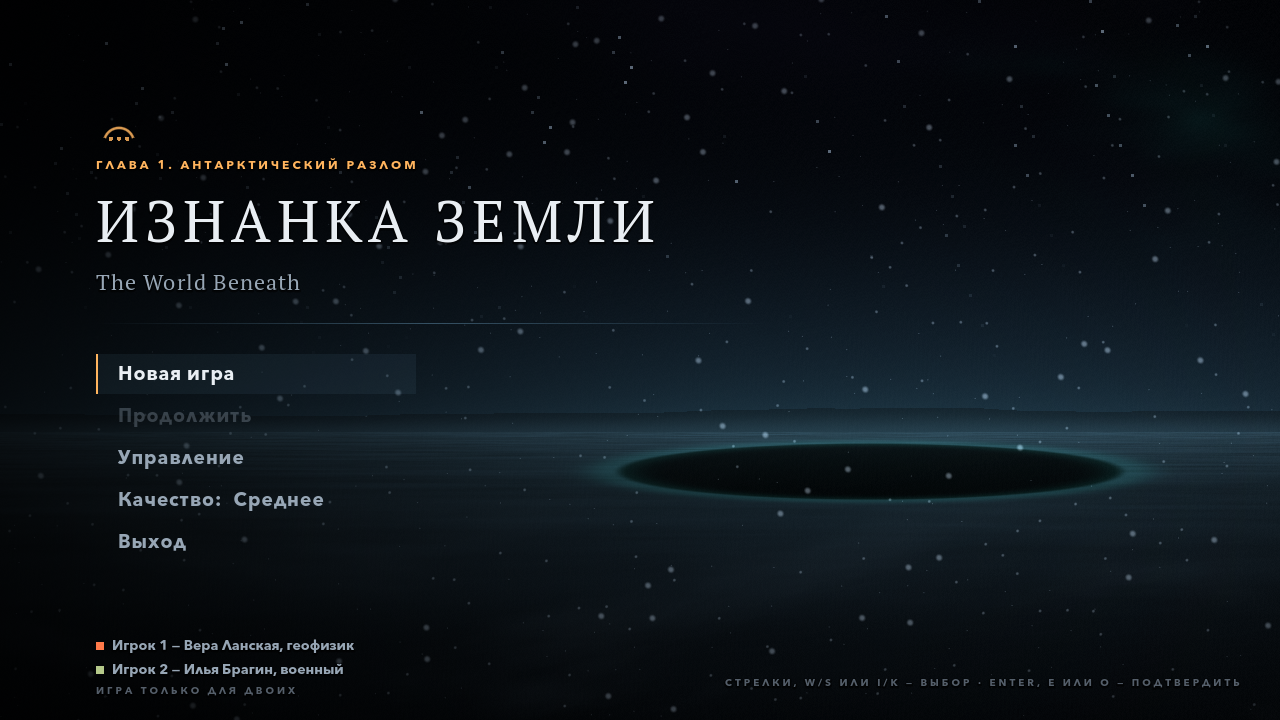
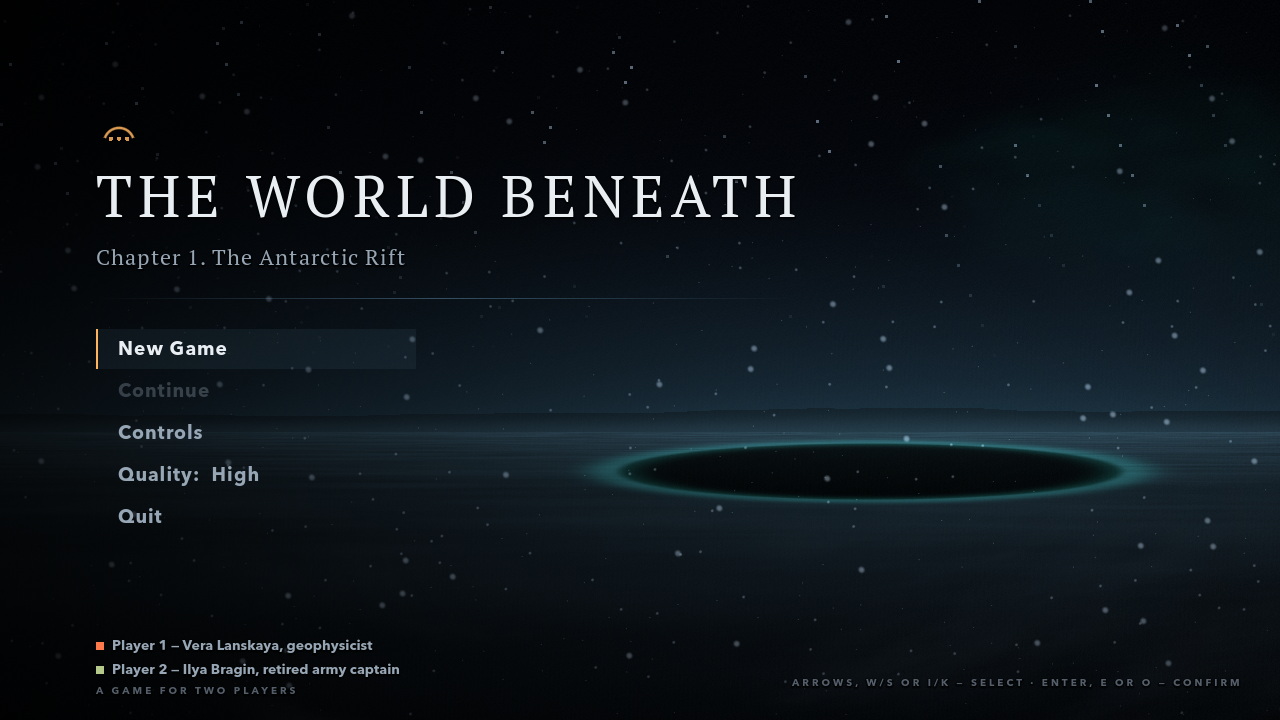
Version 0.3: English game, new description and screenshots

diff --git a/README.md b/README.md
@@ -1,67 +1,83 @@
-# Изнанка Земли / The World Beneath
+# The World Beneath
 
-Кооперативная приключенческая игра на двоих за одним компьютером, вид от третьего лица, разделённый экран.
-Геофизик Вера Ланская и военный Илья Брагин терпят крушение в Антарктиде и проваливаются в скрытый мир под льдом.
+A two-player local co-op adventure in third person with a split screen.
+Geophysicist Vera Lanskaya and retired army captain Ilya Bragin crash in Antarctica and fall into a hidden world beneath the ice.
 
-Это первая глава — «Антарктический разлом». Прохождение занимает примерно 10–20 минут.
+This is Chapter 1, “The Antarctic Rift”. It takes about 10–20 minutes to play through. The game is in English.
 
-![Меню](docs/menu.png)
-![Круглый тоннель](docs/nest.png)
-![Зал печатей](docs/seal.png)
+![Main menu](docs/menu.png)
+![The Petrel over the ice](docs/flight.png)
+![The hall of seals](docs/seal.png)
 
-## Скачать
+## Download
 
-**[Скачать для Mac (последняя версия)](https://github.com/artyakim/the-world-beneath/releases/latest/download/TheWorldBeneath-mac.zip)**
+**[Download for Mac (latest version)](https://github.com/artyakim/the-world-beneath/releases/latest/download/TheWorldBeneath-mac.zip)**
 
-Подходит для Mac на Apple Silicon (macOS 13 и новее) и на Intel (macOS 11 и новее). Проверялась только на Apple Silicon. Версии для Windows пока нет.
+Runs on Apple Silicon Macs (macOS 13 or later) and Intel Macs (macOS 11 or later). It has been tested on Apple Silicon only. There is no Windows version yet.
 
-## Как запустить на Mac
+## How to run it on a Mac
 
-1. Распакуйте архив двойным щелчком и перенесите «Изнанка Земли» в папку «Программы».
-2. Запустите приложение. Оно не подписано сертификатом разработчика Apple, поэтому при первом запуске macOS покажет предупреждение и не откроет его. Нажмите «Готово».
-3. Откройте «Системные настройки» → «Конфиденциальность и безопасность», прокрутите вниз и нажмите «Всё равно открыть» рядом с названием игры.
-4. Дальше приложение запускается обычным двойным щелчком.
+1. Double-click the archive to unpack it and move “The World Beneath” to the Applications folder.
+2. Launch the app. It is not signed with an Apple developer certificate, so on the first launch macOS shows a warning and refuses to open it. Click “Done”.
+3. Open System Settings → Privacy & Security, scroll down, and click “Open Anyway” next to the name of the game.
+4. From then on the app opens with a normal double-click.
 
-**Первый запуск долгий.** После «Новая игра» игра несколько минут готовит графику: на MacBook Pro с M1 Pro это около 4 минут, на менее мощных Mac дольше. На экране видны полоса и процент — это не зависание. Со второго раза игра запускается за 10–15 секунд.
-
-Вместо шагов 2–3 можно один раз выполнить в Терминале:
+Instead of steps 2–3 you can run this once in Terminal:
 
 ```bash
-xattr -dr com.apple.quarantine "/Applications/Изнанка Земли.app"
+xattr -dr com.apple.quarantine "/Applications/The World Beneath.app"
 ```
 
-## Управление
+**The first start is slow.** After you choose “New Game”, the game spends several minutes preparing its graphics: about 4.5 minutes on a MacBook Pro with an M1 Pro, longer on less powerful Macs. A progress bar with a percentage stays on screen the whole time, so the game has not frozen. Every later start takes about 20 seconds.
 
-Игра рассчитана на двоих. Можно играть вдвоём на одной клавиатуре или подключить геймпады: первый управляет Верой, второй — Ильёй.
+Saves from versions 0.1 and 0.2 are not carried over: the game was renamed, so it starts from the beginning.
 
-| Действие | Вера (игрок 1) | Илья (игрок 2) |
-|---|---|---|
-| Движение | W A S D | I J K L или стрелки |
-| Прыжок | Пробел | Enter |
-| Действие | E | O |
-| Способность | Q — сканер | U — фонарь и фальшфейер |
-| Присесть | C | . |
-| Бег | левый Shift | N |
-| Журнал | Tab | Y |
-| Поворот камеры | Z / X | M / , |
+## Controls
 
-Пауза — Esc. Качество графики переключается в главном меню.
+The game is made for two players. You can share one keyboard or connect gamepads: the first gamepad controls Vera, the second controls Ilya. Ilya has two keyboard layouts, and both work at the same time.
 
-## Из чего сделано
+| Action | Vera (player 1) | Ilya, laptop | Ilya, full keyboard | Gamepad |
+|---|---|---|---|---|
+| Move | W A S D | I J K L | Arrow keys | Left stick |
+| Camera | Z X / R F | M , / P ; | Num4 Num6 / Num8 Num5 | Right stick |
+| Jump | Space | Enter | Num0 | A |
+| Interact | E | O | Num2 | X |
+| Ability | Q (scanner) | U (flashlight, flare) | Num3 | Y |
+| Crouch | C | . | Num1 | B |
+| Sprint | Left Shift | N | Right Shift | LB / L3 |
+| Journal | Tab | Y | Num9 | Back |
+| Pause | Esc | Esc | Esc | Start |
 
-- Движок: [Godot 4.7](https://godotengine.org) (лицензия MIT).
-- Модели и анимации персонажей: [Quaternius](https://quaternius.com), CC0.
-- Текстуры: [ambientCG](https://ambientcg.com) и [Poly Haven](https://polyhaven.com), CC0.
-- Звук и музыка создаются в игре программно.
+The same table is in the game under “Controls”. Graphics quality is switched in the main menu.
+
+## What's new in 0.3
+
+- The whole game is in English: dialogue, journal, interface, hints, and the lettering on objects.
+- The opening flight and the crash site use new models: the Petrel aircraft, its wreckage, ice, crates, and barrels.
+- Vera and Ilya wear new polar clothing.
+- The camera in the opening film no longer shakes, and the aircraft flies steadily.
+- The giant no longer carries a staff, and it walks with more weight.
+
+## Credits
+
+- Engine: [Godot 4.7](https://godotengine.org) (MIT license).
+- Aircraft, wreckage, ice, gear, and the heroes' clothing are modeled in Blender.
+- Character bodies and animation: [Quaternius](https://quaternius.com), CC0.
+- Textures: [ambientCG](https://ambientcg.com) and [Poly Haven](https://polyhaven.com), CC0.
+- Music and sound effects are synthesized when the game starts.
 
 ---
 
-## English
+## По-русски
 
-A two-player local co-op third-person adventure with split screen. A geophysicist and a soldier crash in Antarctica and fall into a hidden world beneath the ice. This is chapter one, roughly 10–20 minutes long. The game is in Russian.
+Кооперативная приключенческая игра на двоих за одним компьютером: вид от третьего лица, разделённый экран. Геофизик Вера Ланская и военный Илья Брагин терпят крушение в Антарктиде и проваливаются в скрытый мир под льдом. Это первая глава, прохождение занимает 10–20 минут. Начиная с версии 0.3 игра на английском языке.
 
-**[Download for Mac](https://github.com/artyakim/the-world-beneath/releases/latest/download/TheWorldBeneath-mac.zip)** (Apple Silicon: macOS 13+, Intel: macOS 11+; tested on Apple Silicon only).
+**[Скачать для Mac (последняя версия)](https://github.com/artyakim/the-world-beneath/releases/latest/download/TheWorldBeneath-mac.zip)**
 
-The app is not signed with an Apple developer certificate. On first launch macOS will block it: open System Settings → Privacy & Security and click “Open Anyway”.
+1. Распакуйте архив и перенесите «The World Beneath» в папку «Программы».
+2. Запустите приложение. Оно не подписано сертификатом разработчика Apple, поэтому macOS покажет предупреждение и не откроет его. Нажмите «Готово».
+3. Откройте «Системные настройки» → «Конфиденциальность и безопасность», прокрутите вниз и нажмите «Всё равно открыть» рядом с названием игры.
 
-The very first start takes several minutes while the game prepares its shaders (about 4 minutes on an M1 Pro); later starts take 10–15 seconds.
+**Первый запуск долгий.** После «New Game» игра несколько минут готовит графику: около 4,5 минуты на MacBook Pro с M1 Pro, на менее мощных Mac дольше. На экране видны полоса и процент — это не зависание. Со второго раза игра запускается примерно за 20 секунд.
+
+Сохранения версий 0.1 и 0.2 не переносятся: игра начнётся сначала. Управление — в таблице выше и в самой игре, в разделе «Controls».
